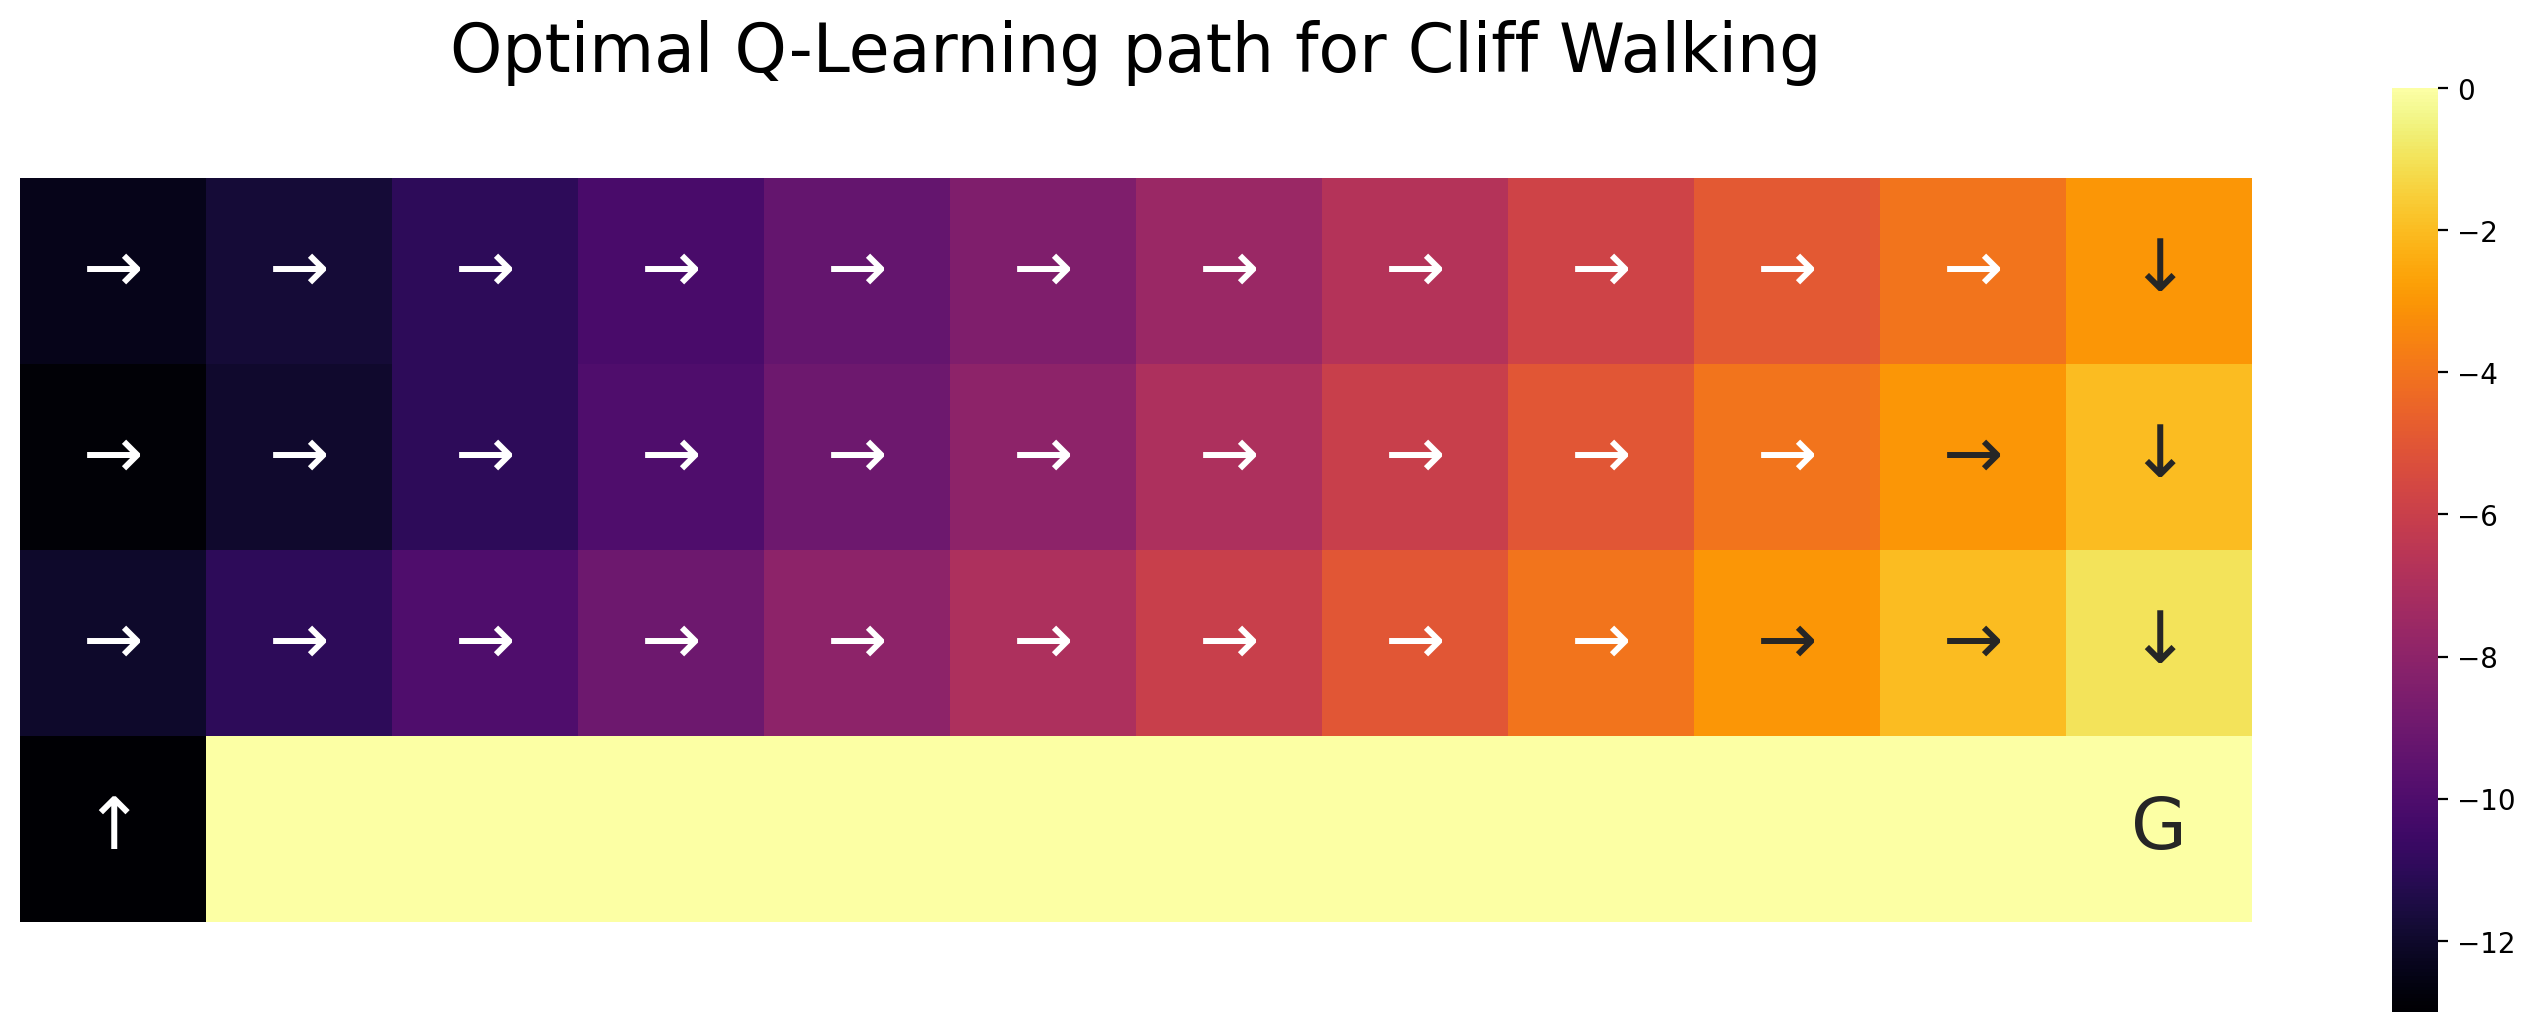
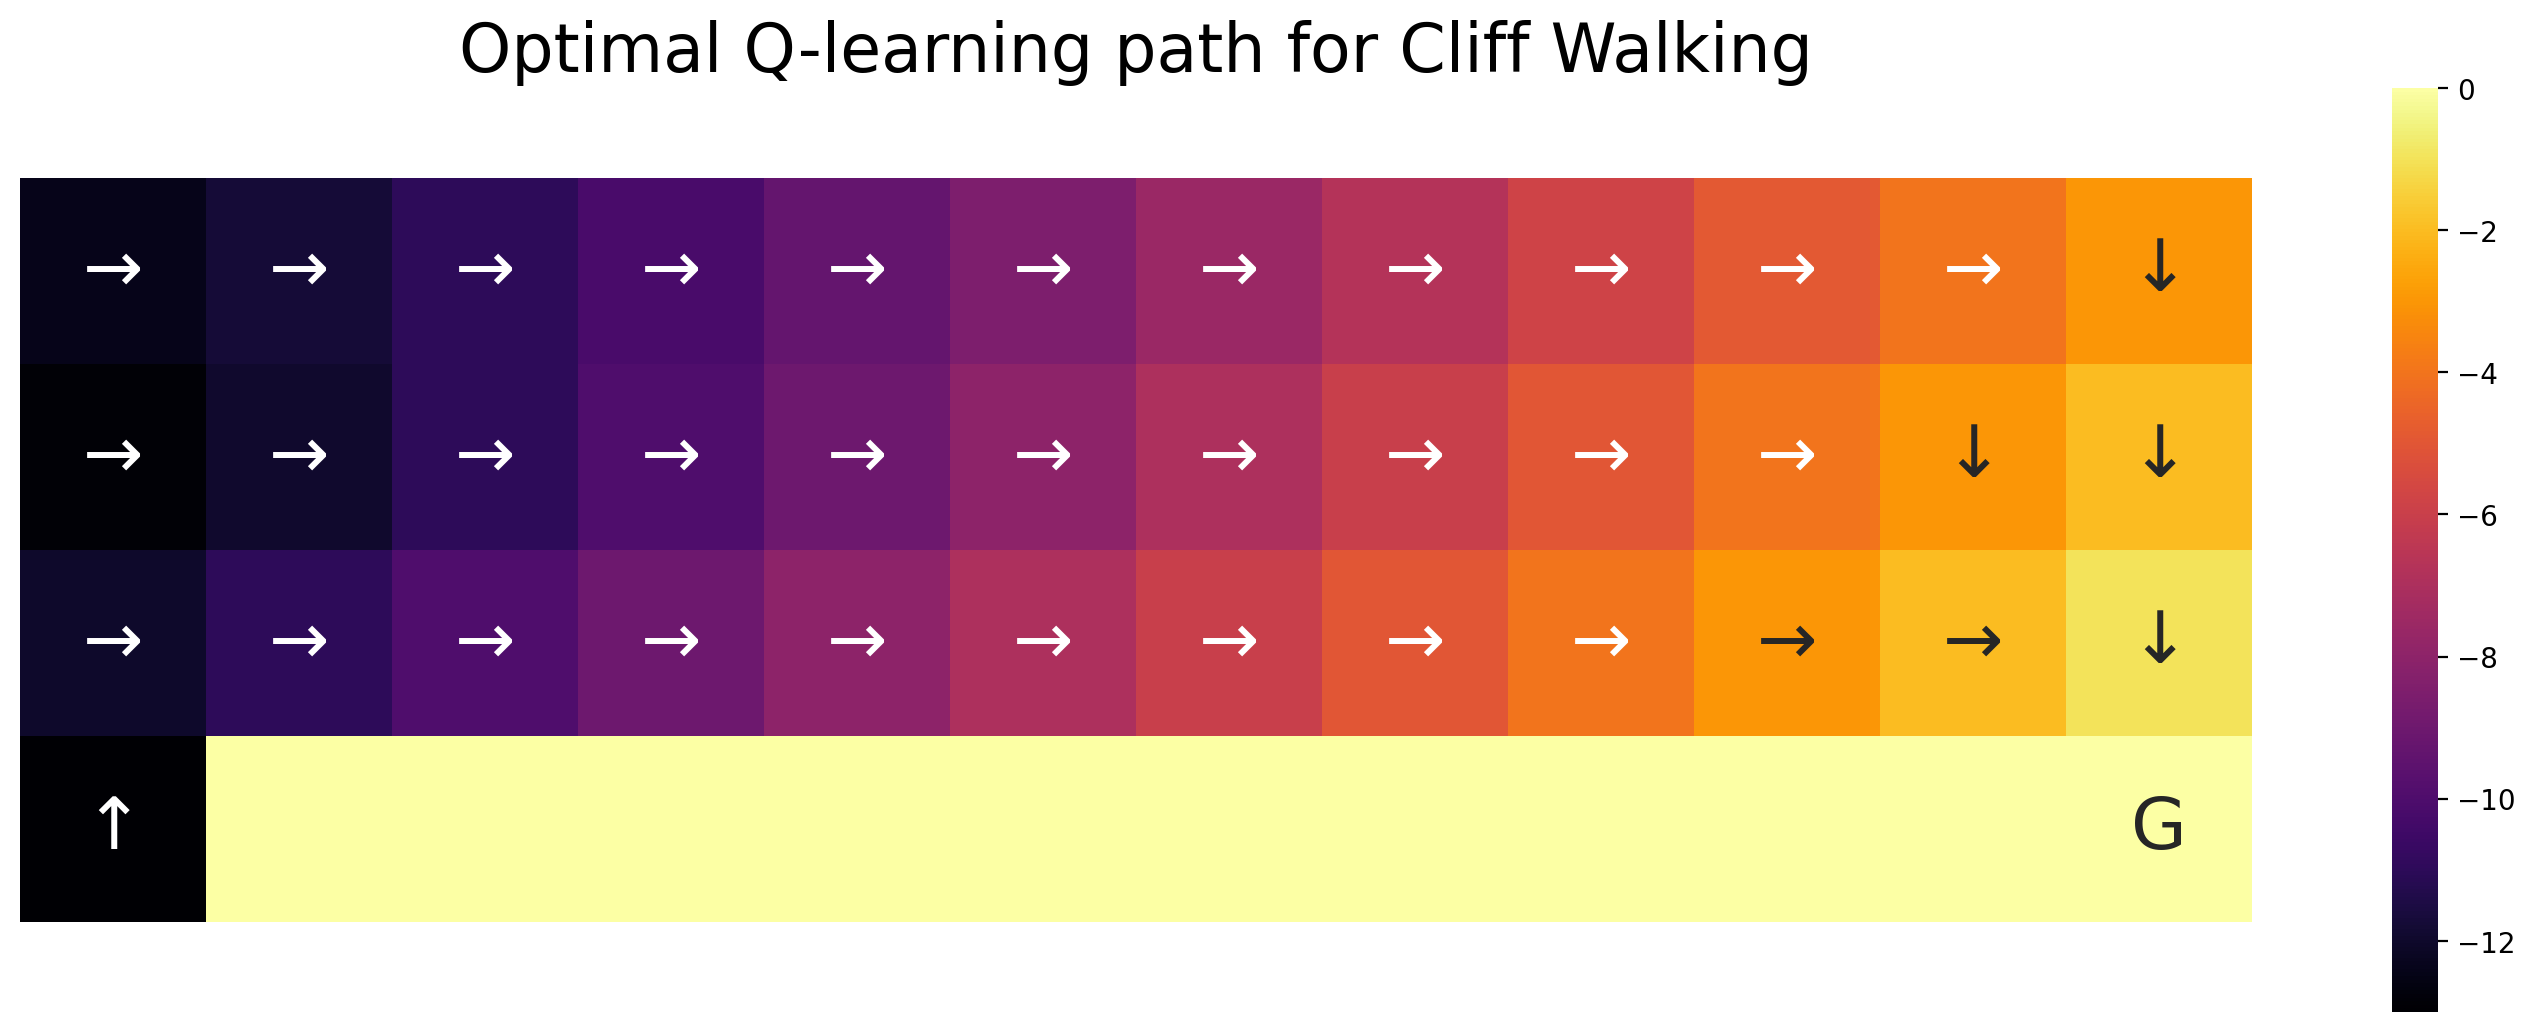
Add visualization

Changed region(s): [[0.1558, 0.0, 0.7168, 0.093], [0.7479, 0.4341, 0.8103, 0.4651]]

diff --git a/chapter06/cliff_walking.py b/chapter06/cliff_walking.py
@@ -11,6 +11,7 @@ import seaborn as sns
 import gymnasium as gym
 from matplotlib import pyplot as plt
 from tqdm import tqdm
+from utils import visualize
 
 # probability for exploration
 EPSILON = 0.1
@@ -21,14 +22,11 @@ ALPHA = 0.5
 # discount factor for Q-Learning and Expected Sarsa
 GAMMA = 1
 
-# there are 48 different states in the cliff walking environment
-OBSERVATION_SPACE = 48
-
-# there are 4 different actions in the cliff walking environment (up, right, down, left)
-ACTION_SPACE = 4
+# environment
+CLIFF_WALKING = gym.make('CliffWalking-v0')
 
 # where to save the images
-image_dir = '../images/chapter06/'
+IMAGE_DIR = '../images/chapter06/'
 
 
 def plot_heatmap(q_values, title, saving_format='.png'):
@@ -46,16 +44,17 @@ def plot_heatmap(q_values, title, saving_format='.png'):
     plt.axis('equal')
     plt.title(title, fontsize=24)
     im = sns.heatmap(value_max, cmap="inferno", annot=labels, annot_kws={'fontsize': 26}, fmt='s')
-    im.figure.savefig(image_dir + title + saving_format, bbox_inches='tight', dpi=200)
+    im.figure.savefig(IMAGE_DIR + title + saving_format, bbox_inches='tight', dpi=200)
 
 
-def choose_action(state: int, q_values: np.ndarray) -> int:
+def choose_action(state: int, q_values: np.ndarray, env: gym.Env) -> int:
     """Epsilon-greedy policy: selects the maximum value action with probability (1-epsilon) and selects randomly with
     epsilon probability.
 
     Args:
         state (integer): current state
         q_values (ndarray): current value function of shape (n_states, n_actions)
+        env (Env): gymnasium environment
 
     Returns:
         action (integer): the chosen action
@@ -63,16 +62,16 @@ def choose_action(state: int, q_values: np.ndarray) -> int:
     if np.random.random() > EPSILON:  # greedy action
         action = np.argmax(q_values[state])
     else:  # random action
-        action = np.random.choice(q_values.shape[1])
+        action = env.action_space.sample()
     return action
 
 
-def q_learning(n_episodes: int, plot_q_val: bool = True) -> (np.ndarray, np.ndarray):
-    """Q-Learning: runs the Q-Learning algorithm on the Cliff Walking environment.
+def q_learning(n_episodes: int, env: gym.Env) -> (np.ndarray, np.ndarray):
+    """Q-Learning: runs the Q-learning algorithm with epsilon-greedy policy on gym environment.
 
     Args:
         n_episodes (integer): the number of episodes we train the model
-        plot_q_val (bool): plot the Q-values
+        env (Env): gym environment
 
     Returns:
         episode_rewards (ndarray): the sum of rewards in each episode
@@ -80,33 +79,28 @@ def q_learning(n_episodes: int, plot_q_val: bool = True) -> (np.ndarray, np.ndar
     """
     episode_rewards = np.empty(n_episodes)
 
-    env = gym.make('CliffWalking-v0')
-    q = np.zeros(shape=(OBSERVATION_SPACE, ACTION_SPACE))
+    q = np.zeros(shape=(env.observation_space.n, env.action_space.n))
 
     for episode_i in range(n_episodes):
         state, info = env.reset()
         episode_reward_sum, terminal = 0, False
         while not terminal:
-            action = choose_action(state, q)
+            action = choose_action(state, q, env)
             next_state, reward, terminated, truncated, info = env.step(action)
             q[state, action] += ALPHA * (reward + GAMMA * np.max(q[next_state]) - q[state, action])
             state = next_state
             episode_reward_sum += reward
             terminal = terminated or truncated
         episode_rewards[episode_i] = episode_reward_sum
-
-    if plot_q_val:
-        plot_heatmap(q, f'Optimal Q-Learning path for Cliff Walking after {n_episodes} episodes')
-
     return episode_rewards, q
 
 
-def sarsa(n_episodes: int, plot_q_val: bool = True) -> (np.array, np.ndarray):
-    """Sarsa: runs the Sarsa algorithm on the Cliff Walking environment.
+def sarsa(n_episodes: int, env: gym.Env) -> (np.array, np.ndarray):
+    """Sarsa: runs the Sarsa algorithm with epsilon-greedy policy on gym environment.
 
     Args:
         n_episodes (integer): the number of episodes we train the model
-        plot_q_val (bool): plot the Q-values
+        env (Env): gymnasium environment
 
     Returns:
         episode_rewards (ndarray): the sum of rewards in each episode
@@ -114,39 +108,35 @@ def sarsa(n_episodes: int, plot_q_val: bool = True) -> (np.array, np.ndarray):
     """
     episode_rewards = np.empty(n_episodes)
 
-    env = gym.make('CliffWalking-v0')
-    q = np.zeros(shape=(OBSERVATION_SPACE, ACTION_SPACE))
+    q = np.zeros(shape=(env.observation_space.n, env.action_space.n))
 
     for episode_i in range(n_episodes):
         state, info = env.reset()
         episode_reward_sum, terminal = 0, False
-        action = choose_action(state, q)
+        action = choose_action(state, q, env)
         while not terminal:
             next_state, reward, terminated, truncated, info = env.step(action)
-            next_action = choose_action(next_state, q)
+            next_action = choose_action(next_state, q, env)
             q[state, action] += ALPHA * (reward + GAMMA * q[next_state, next_action] - q[state, action])
             state, action = next_state, next_action
             episode_reward_sum += reward
             terminal = terminated or truncated
         episode_rewards[episode_i] = episode_reward_sum
-
-    if plot_q_val:
-        plot_heatmap(q, f'Optimal Sarsa path for Cliff Walking after {n_episodes} episodes')
-
     return episode_rewards, q
 
 
 # Sarsa converges to the safe path, while Q-Learning converges to the optimal path
 def figure_6_4(episodes=500, runs=1000, saving_format='.png'):
-    sarsa_rewards, sarsa_q = np.zeros(episodes), np.zeros(shape=(OBSERVATION_SPACE, ACTION_SPACE))
-    q_learning_rewards, q_learning_q = np.zeros(episodes), np.zeros(shape=(OBSERVATION_SPACE, ACTION_SPACE))
+    q_shape = (CLIFF_WALKING.observation_space.n, CLIFF_WALKING.action_space.n)
+    sarsa_rewards, sarsa_q = np.zeros(episodes), np.zeros(shape=q_shape)
+    q_learning_rewards, q_learning_q = np.zeros(episodes), np.zeros(shape=q_shape)
 
     # repeat for multiple runs to achieve smoother results
     for _ in tqdm(range(runs)):
-        sarsa_rewards_, sarsa_q_ = sarsa(episodes, False)
+        sarsa_rewards_, sarsa_q_ = sarsa(episodes, CLIFF_WALKING)
         sarsa_rewards += sarsa_rewards_
         sarsa_q += sarsa_q_
-        q_learning_rewards_, q_learning_q_ = q_learning(episodes, False)
+        q_learning_rewards_, q_learning_q_ = q_learning(episodes, CLIFF_WALKING)
         q_learning_rewards += q_learning_rewards_
         q_learning_q += q_learning_q_
 
@@ -158,71 +148,72 @@ def figure_6_4(episodes=500, runs=1000, saving_format='.png'):
 
     # draw reward curves
     plt.plot(sarsa_rewards, label='Sarsa', color='deepskyblue')
-    plt.plot(q_learning_rewards, label='Q-Learning', color='red')
+    plt.plot(q_learning_rewards, label='Q-learning', color='red')
     plt.xlabel('Episodes')
     plt.ylabel('Sum of rewards during episode')
     plt.ylim([-100, 0])
     plt.legend()
 
-    plt.savefig(image_dir + 'figure_6_4' + saving_format, bbox_inches='tight', dpi=200)
+    plt.savefig(IMAGE_DIR + 'figure_6_4' + saving_format, bbox_inches='tight', dpi=200)
     plt.close()
 
     # display optimal policy
-    plot_heatmap(q_learning_q, f'Optimal Q-Learning path for Cliff Walking')
+    render_env = gym.make('CliffWalking-v0', render_mode='rgb_array')
     plot_heatmap(sarsa_q, f'Optimal Sarsa path for Cliff Walking')
+    visualize.make_gif(render_env, sarsa_q, 'sarsa_cliff_walking', image_dir=IMAGE_DIR)
+    plot_heatmap(q_learning_q, f'Optimal Q-learning path for Cliff Walking')
+    visualize.make_gif(render_env, q_learning_q, 'q-learning_cliff_walking', image_dir=IMAGE_DIR)
 
 
-#
-# # Due to limited capacity of calculation of my machine, I can't complete this experiment
-# # with 100,000 episodes and 50,000 runs to get the fully averaged performance
-# # However even I only play for 1,000 episodes and 10 runs, the curves looks still good.
-# def figure_6_6():
-#     step_sizes = np.arange(0.1, 1.1, 0.1)
-#     episodes = 1000
-#     runs = 10
-#
-#     ASY_SARSA = 0
-#     ASY_EXPECTED_SARSA = 1
-#     ASY_QLEARNING = 2
-#     INT_SARSA = 3
-#     INT_EXPECTED_SARSA = 4
-#     INT_QLEARNING = 5
-#     methods = range(0, 6)
-#
-#     performace = np.zeros((6, len(step_sizes)))
-#     for run in range(runs):
-#         for ind, step_size in tqdm(list(zip(range(0, len(step_sizes)), step_sizes))):
-#             q_sarsa = np.zeros((WORLD_HEIGHT, WORLD_WIDTH, 4))
-#             q_expected_sarsa = np.copy(q_sarsa)
-#             q_q_learning = np.copy(q_sarsa)
-#             for ep in range(episodes):
-#                 sarsa_reward = sarsa(q_sarsa, expected=False, step_size=step_size)
-#                 expected_sarsa_reward = sarsa(q_expected_sarsa, expected=True, step_size=step_size)
-#                 q_learning_reward = q_learning(q_q_learning, step_size=step_size)
-#                 performace[ASY_SARSA, ind] += sarsa_reward
-#                 performace[ASY_EXPECTED_SARSA, ind] += expected_sarsa_reward
-#                 performace[ASY_QLEARNING, ind] += q_learning_reward
-#
-#                 if ep < 100:
-#                     performace[INT_SARSA, ind] += sarsa_reward
-#                     performace[INT_EXPECTED_SARSA, ind] += expected_sarsa_reward
-#                     performace[INT_QLEARNING, ind] += q_learning_reward
-#
-#     performace[:3, :] /= episodes * runs
-#     performace[3:, :] /= 100 * runs
-#     labels = ['Asymptotic Sarsa', 'Asymptotic Expected Sarsa', 'Asymptotic Q-Learning',
-#               'Interim Sarsa', 'Interim Expected Sarsa', 'Interim Q-Learning']
-#
-#     for method, label in zip(methods, labels):
-#         plt.plot(step_sizes, performace[method, :], label=label)
-#     plt.xlabel('alpha')
-#     plt.ylabel('reward per episode')
-#     plt.legend()
-#
-#     plt.savefig('../images/figure_6_6.png')
-#     plt.close()
+# Due to limited capacity of calculation of my machine, I can't complete this experiment
+# with 100,000 episodes and 50,000 runs to get the fully averaged performance
+# However even I only play for 1,000 episodes and 10 runs, the curves looks still good.
+def figure_6_6():
+    step_sizes = np.arange(0.1, 1.1, 0.1)
+    episodes = 1000
+    runs = 10
+
+    ASY_SARSA = 0
+    ASY_EXPECTED_SARSA = 1
+    ASY_QLEARNING = 2
+    INT_SARSA = 3
+    INT_EXPECTED_SARSA = 4
+    INT_QLEARNING = 5
+    methods = range(0, 6)
+
+    performance = np.zeros((6, len(step_sizes)))
+    for run in range(runs):
+        for ind, step_size in tqdm(list(zip(range(0, len(step_sizes)), step_sizes))):
+            q_sarsa = np.zeros((WORLD_HEIGHT, WORLD_WIDTH, 4))
+            q_expected_sarsa = np.copy(q_sarsa)
+            q_q_learning = np.copy(q_sarsa)
+            for ep in range(episodes):
+                sarsa_reward = sarsa(q_sarsa, expected=False, step_size=step_size)
+                expected_sarsa_reward = sarsa(q_expected_sarsa, expected=True, step_size=step_size)
+                q_learning_reward = q_learning(q_q_learning, step_size=step_size)
+                performance[ASY_SARSA, ind] += sarsa_reward
+                performance[ASY_EXPECTED_SARSA, ind] += expected_sarsa_reward
+                performance[ASY_QLEARNING, ind] += q_learning_reward
+
+                if ep < 100:
+                    performance[INT_SARSA, ind] += sarsa_reward
+                    performance[INT_EXPECTED_SARSA, ind] += expected_sarsa_reward
+                    performance[INT_QLEARNING, ind] += q_learning_reward
+
+    performance[:3, :] /= episodes * runs
+    performance[3:, :] /= 100 * runs
+    labels = ['Asymptotic Sarsa', 'Asymptotic Expected Sarsa', 'Asymptotic Q-Learning',
+              'Interim Sarsa', 'Interim Expected Sarsa', 'Interim Q-Learning']
+
+    for method, label in zip(methods, labels):
+        plt.plot(step_sizes, performance[method, :], label=label)
+    plt.xlabel('alpha')
+    plt.ylabel('reward per episode')
+    plt.legend()
+
+    plt.savefig('../images/figure_6_6.png')
+    plt.close()
 
 
 if __name__ == '__main__':
-    environment = gym.make('CliffWalking-v0')
     figure_6_4()

diff --git a/utils/visualize.py b/utils/visualize.py
@@ -1,0 +1,72 @@
+import gymnasium as gym
+import numpy as np
+import cv2
+from PIL import Image
+
+
+DEFAULT_DIR = '../images/'
+
+
+def greedy(q_value, state):
+    return np.argmax(q_value[state])
+
+
+def show_policy(env, q_value, act=greedy):
+    state, info = env.reset()
+    while True:
+        action = act(q_value, state)
+        state, reward, terminated, truncated, info = env.step(action)
+        if terminated or truncated:
+            break
+    env.close()
+
+
+def make_mp4(env, q_value, name='file_name', act=greedy, image_dir=DEFAULT_DIR):
+    assert env.render_mode == 'rgb_array'
+    frames = list()
+    state, info = env.reset()
+    while True:
+        frames.append(env.render())
+        action = act(q_value, state)
+        state, reward, terminated, truncated, info = env.step(action)
+        if terminated or truncated:
+            frames.append(env.render())
+            break
+    env.close()
+    height, width, layers = frames[0].shape
+    # Define the codec and create VideoWriter object
+    fourcc = cv2.VideoWriter_fourcc(*'mp4v')  # 'mp4v' for .mp4, 'XVID' for .avi
+    video = cv2.VideoWriter(image_dir + name + '.mp4', fourcc, env.metadata['render_fps'], (width, height))
+
+    for frame in frames:
+        # Convert RGB to BGR for OpenCV
+        frame_bgr = cv2.cvtColor(frame, cv2.COLOR_RGB2BGR)
+        video.write(frame_bgr)
+
+    video.release()
+
+
+def make_gif(env, q_value, name='file_name', act=greedy, image_dir=DEFAULT_DIR):
+    assert env.render_mode == 'rgb_array'
+    frames = []
+    state, info = env.reset()
+    while True:
+        frame = env.render()
+        frames.append(cv2.cvtColor(frame, cv2.COLOR_RGB2BGR))  # Convert to BGR for OpenCV
+        action = act(q_value, state)
+        state, reward, terminated, truncated, info = env.step(action)
+        if terminated or truncated:
+            frame = env.render()
+            frames.append(cv2.cvtColor(frame, cv2.COLOR_RGB2BGR))  # Convert to BGR for OpenCV
+            break
+    env.close()
+
+    # Convert frames to PIL images
+    pil_frames = [Image.fromarray(cv2.cvtColor(frame, cv2.COLOR_BGR2RGB)) for frame in frames]
+
+    # Save as GIF
+    gif_path = f"{image_dir}{name}.gif"
+    duration = 1000 // env.metadata['render_fps']
+    pil_frames[0].save(
+        gif_path, save_all=True, append_images=pil_frames[1:], loop=0, duration=duration
+    )
